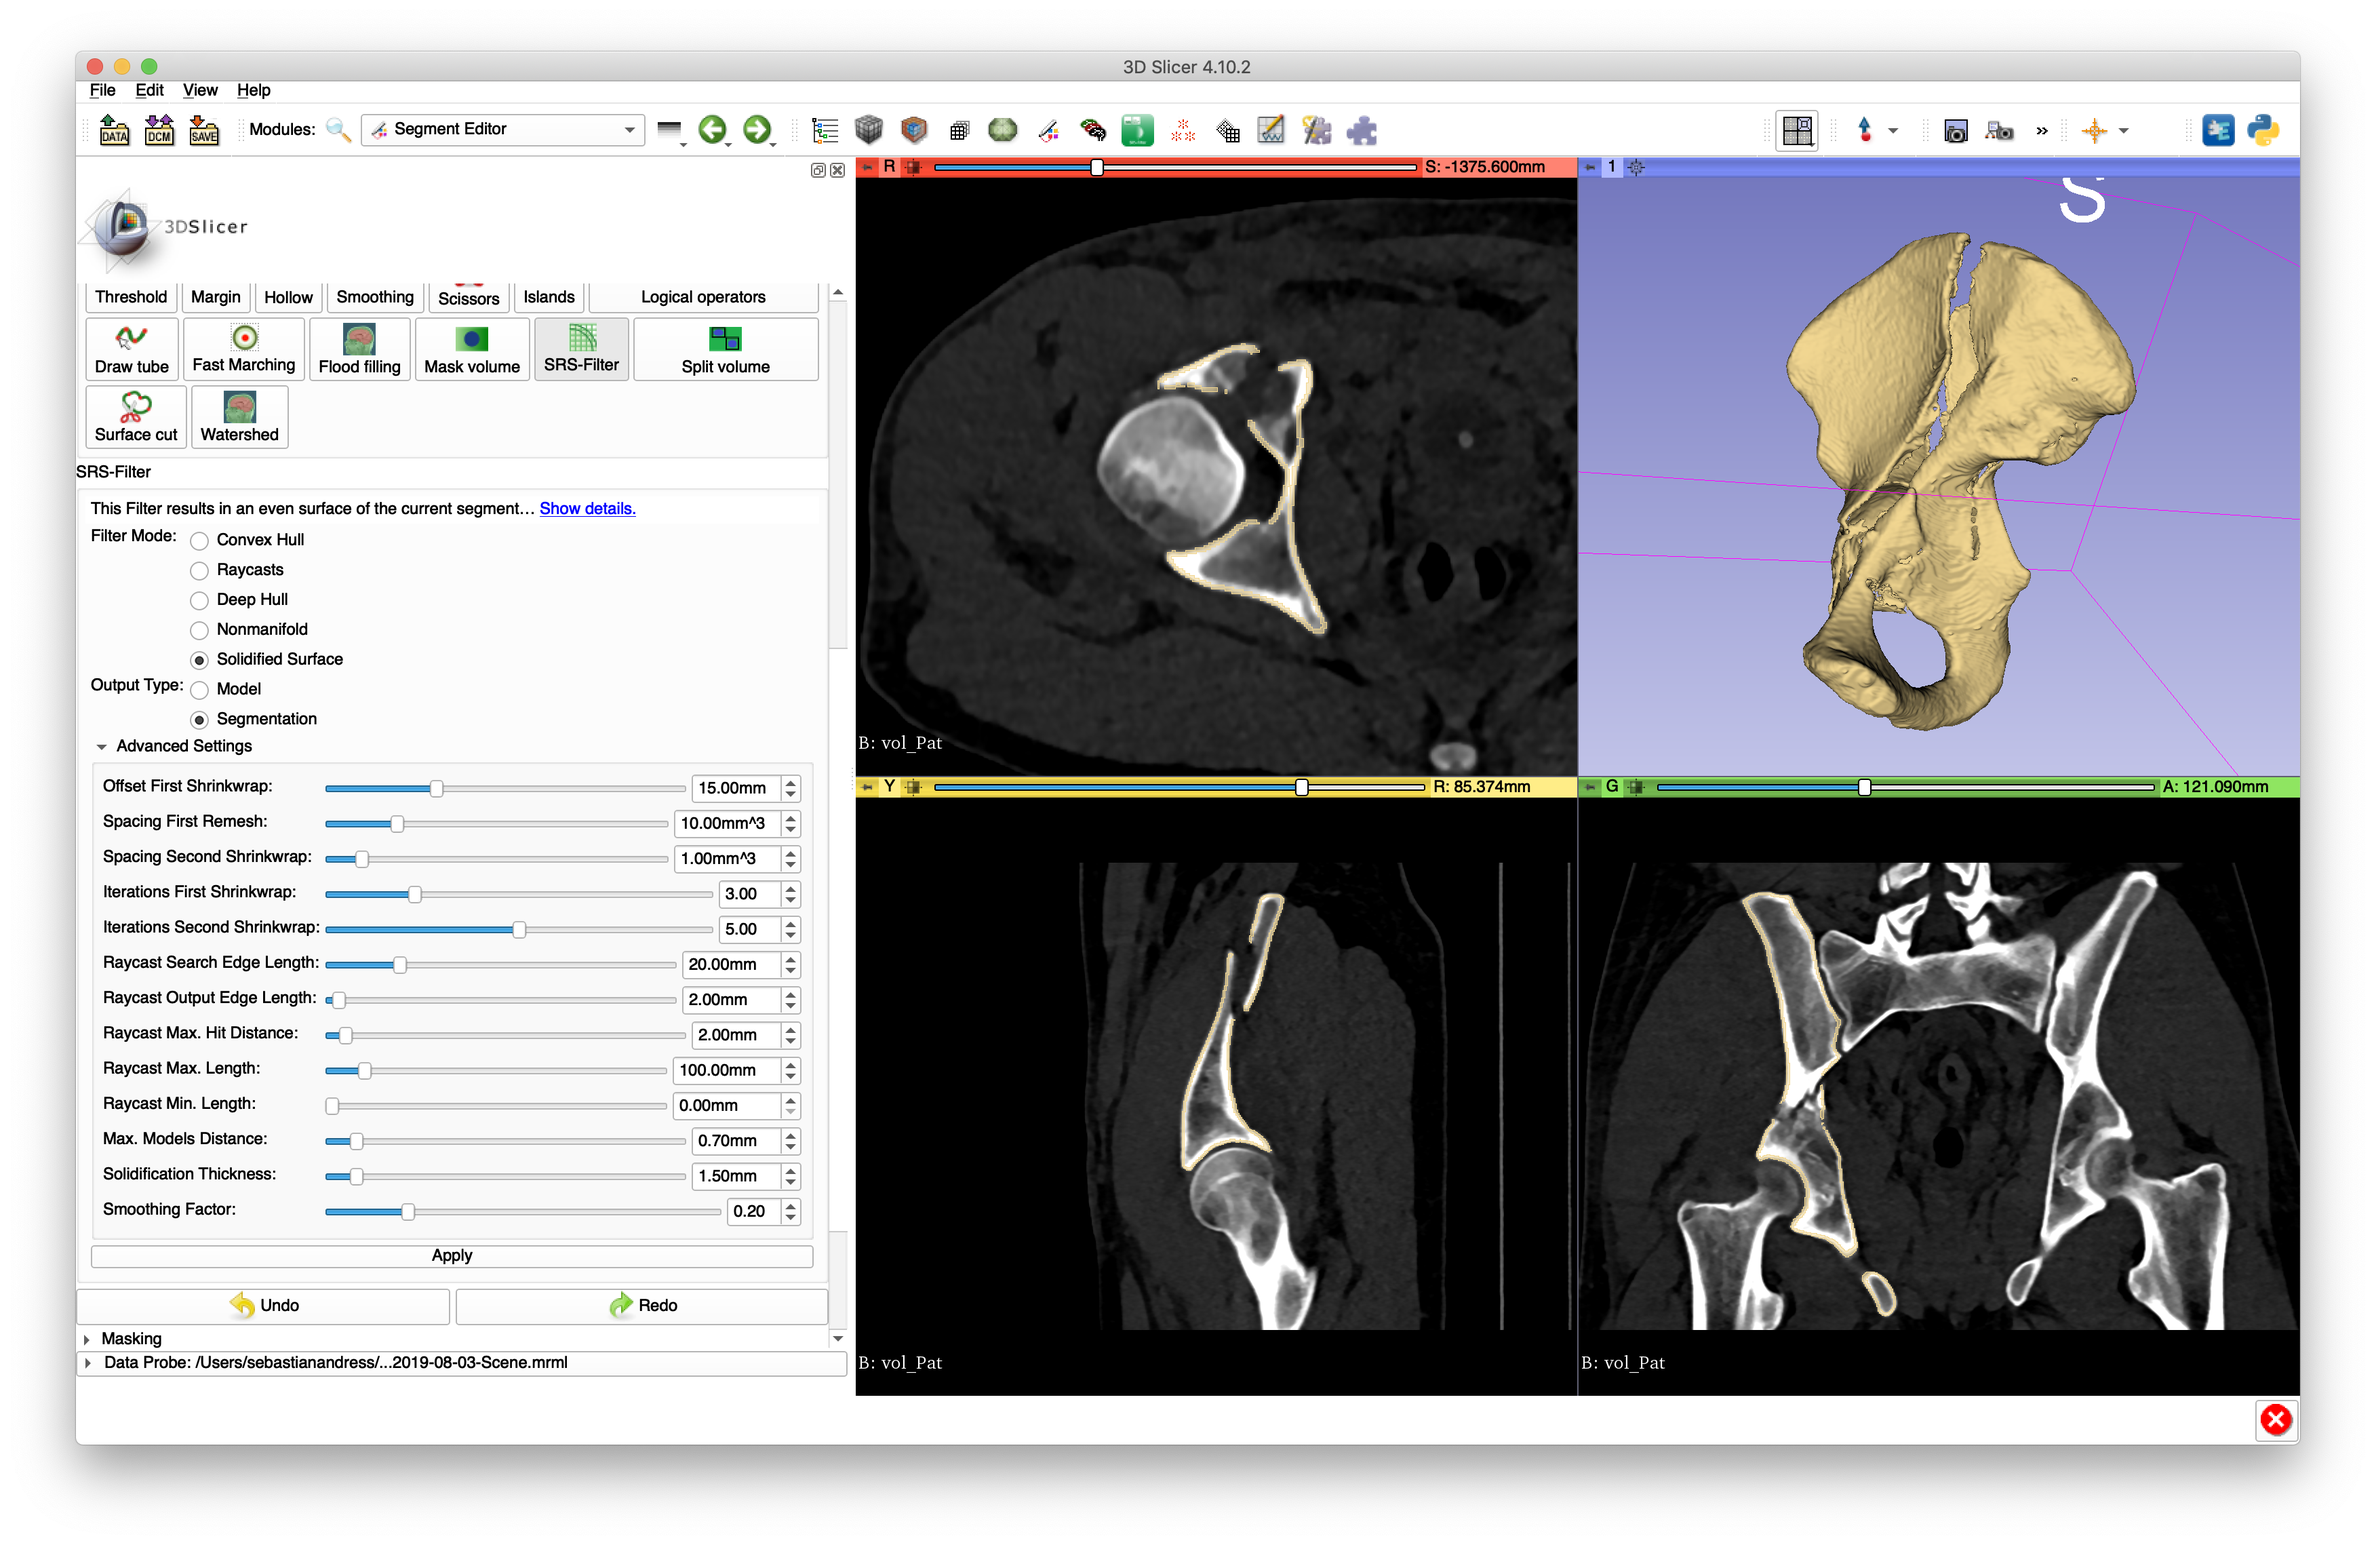
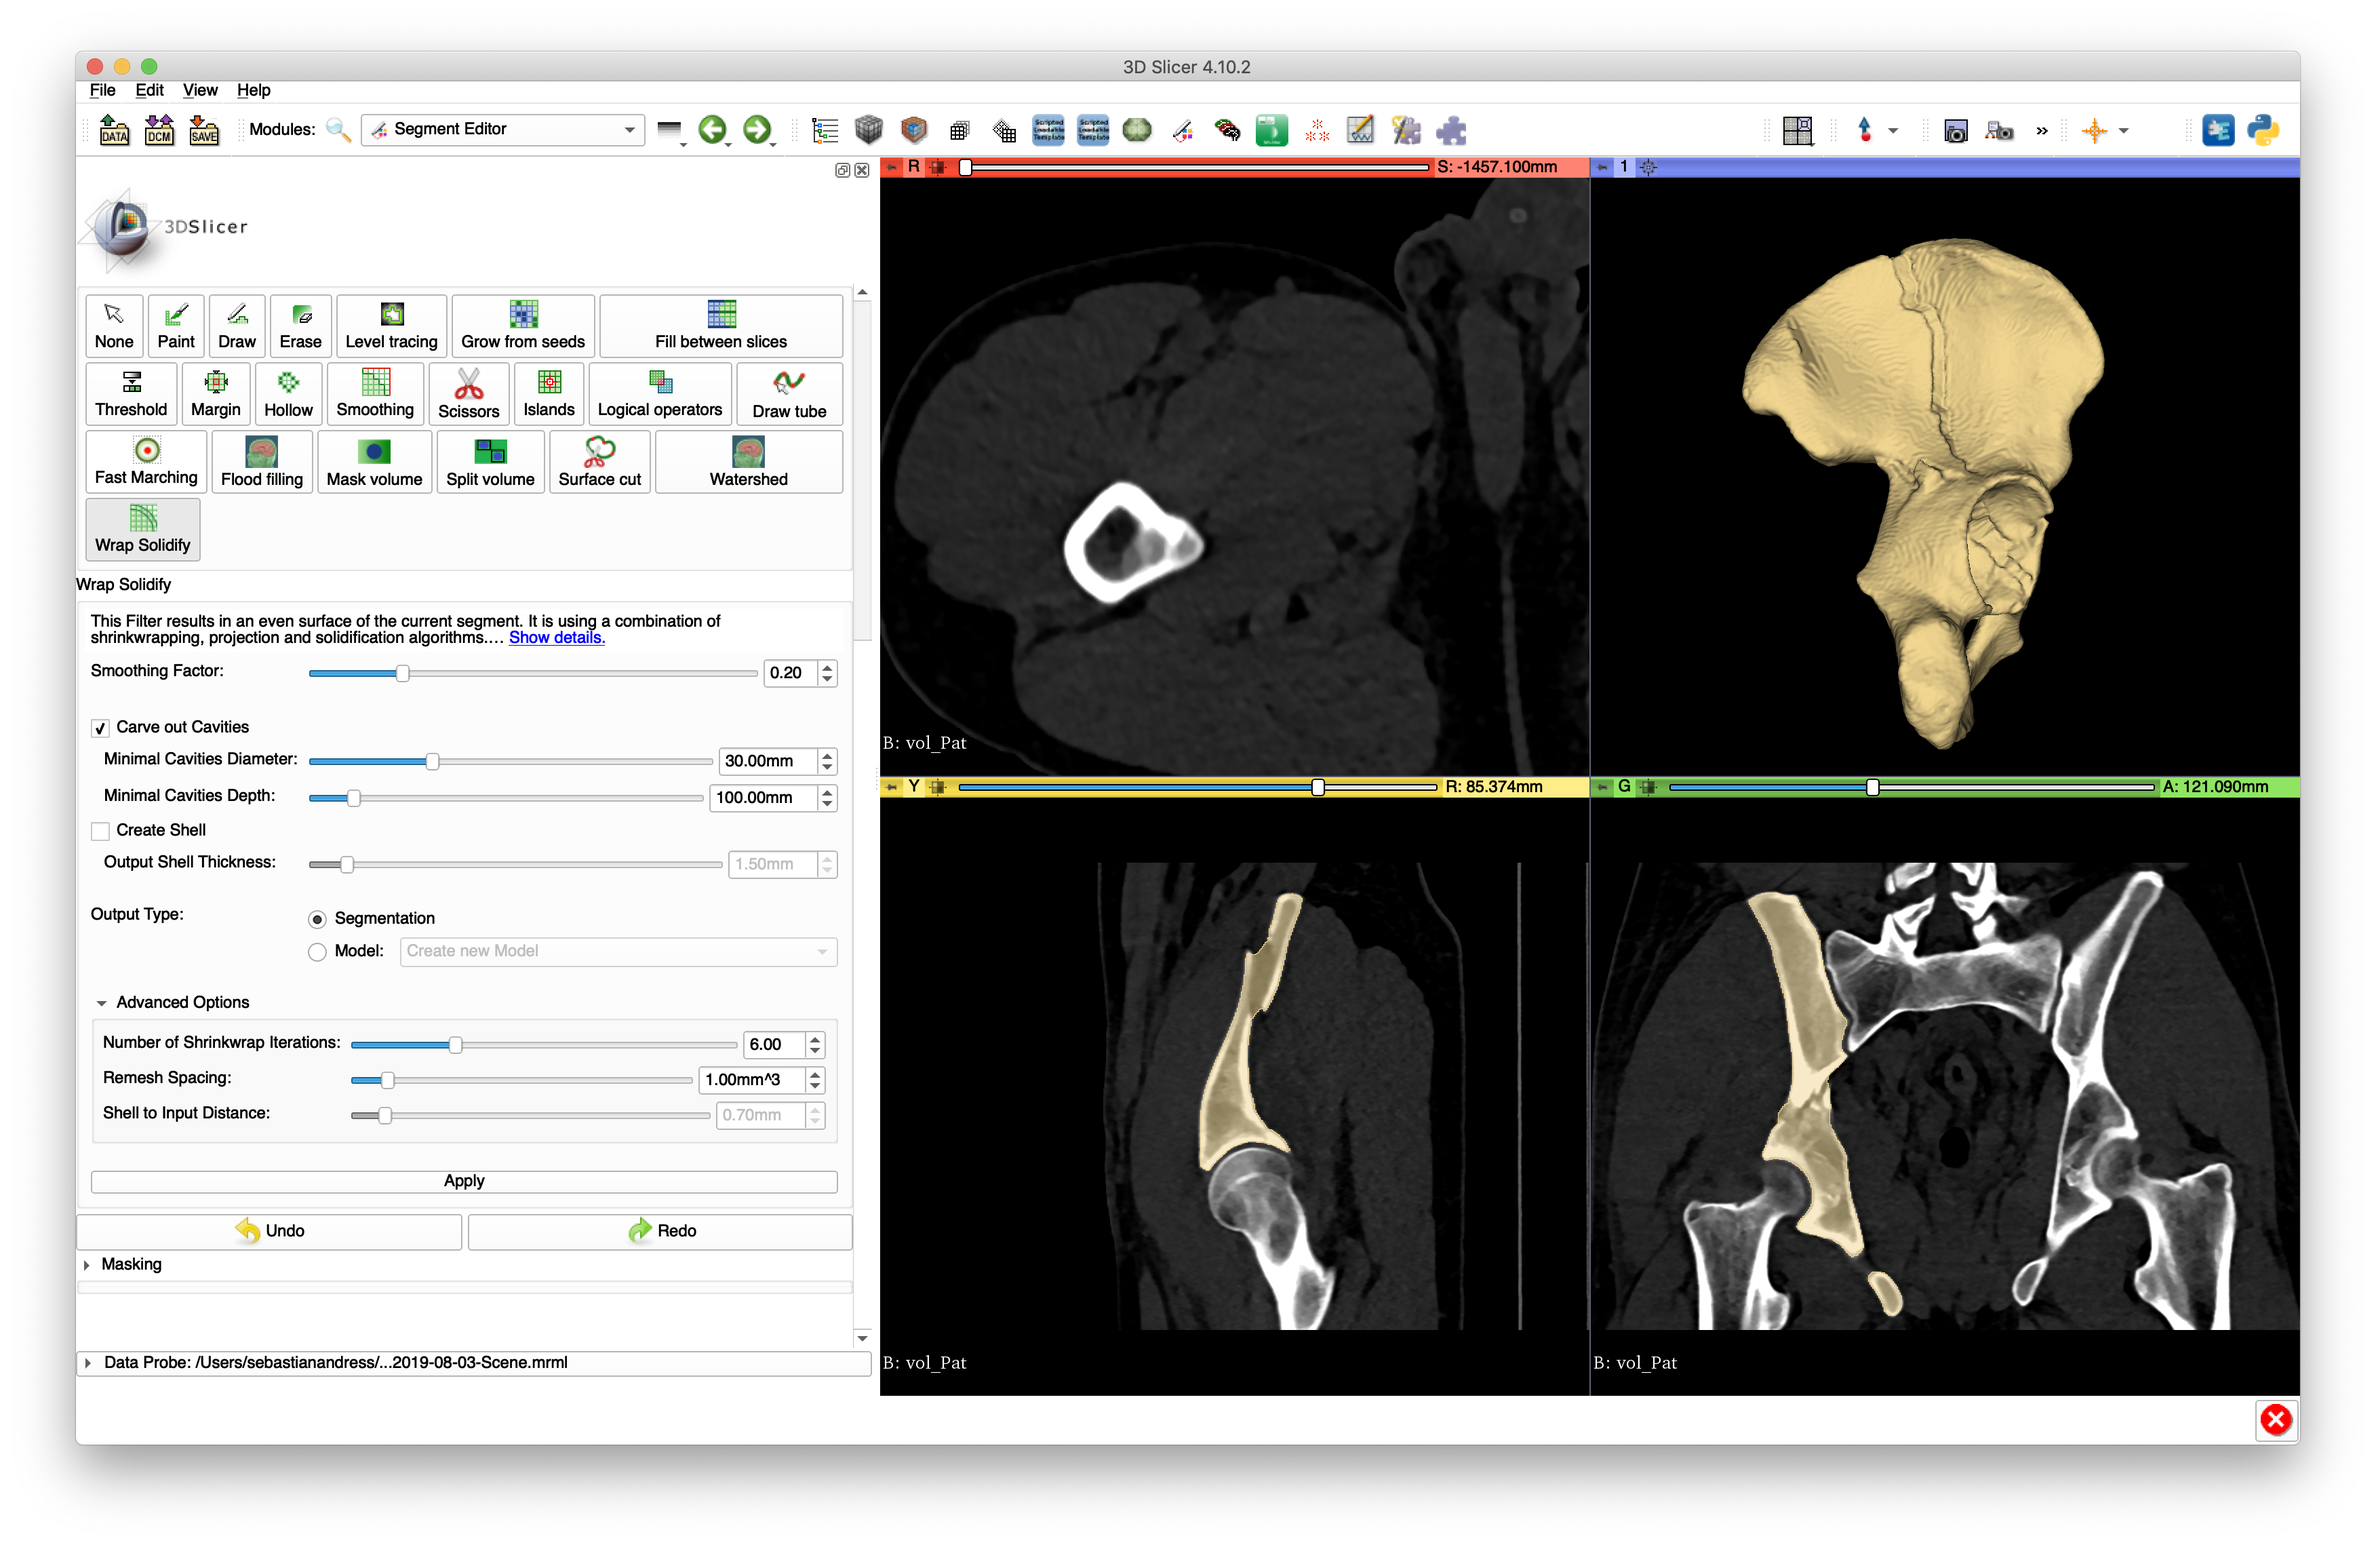
Closes #2 by adapting readme
Former-commit-id: f8107188183881403f48232ea838bc1daf4be76b [formerly 7311852ae4e9285aadfd59e2fef997484c52c3a7]
Former-commit-id: 80a0d84ee982011b4cc0a55fd69224666b78aca2

diff --git a/README.md b/README.md
@@ -11,125 +11,73 @@ This effect was designed for creating fractured bone models for fast 3D printing
 
 In our use-case, we used this effect after applying a simple threshold operation and separating the bone with simple brushing and island techniques. Please watch the [workflow example](#Workflow-Example) videos. The effect was tested on more than 30 acetabular fracture models, it reduced the printing time about 70%.
 
-![](/Resources/Screenshots/screenshot1.png)
+![Screenshot](/Resources/Screenshots/screenshot1.png)
 
-## Principle Description and Parameters
-The Wrap Solidify Effect uses the following pipeline to achieve the effect result. Also the related parameters are explained.
+## Description
+The Wrap Solidify Effect uses the following pipeline:
 
 1. A surface representation of the selected segment is created (segmented model).
-    * __Smoothing Factor__: Smoothing of the surface representation. This factor is also used on the output surface model and segmentation.
-
+    * _Smoothing Factor_ defines smoothing of the input surface representation
 2. Around this segmented model a sphere is created (sphere/surface model).
+3. Shrinkwrapping (iteratively shrinking and remeshing the sphere model to the segmented model) is used for surface definition.
+    * _Number of Shrinkwrap Iterations_ is used to define the number of iterations.
+    * _Smoothing Factor_ is used for smoothing between iterations.
+    * _Spacing_ is used to define resolution of remesh.
+4. (optional) The resulting surface model is converted into a segmentation.
 
-3. Iteratively shrinkwrapping and remeshing the sphere model to the segmented model, keeping a distance between both models.
+### Optional Steps
 
-    ![](/Resources/Media/description_1_firstSR.png)
+* **Carve out Cavities**:
+    1. Three initial shrinking and remeshing iterations ([Step 1-3](#Description)).
+        * _Minimal Cavities Diameter_ and _Minimal Cavities Depth_ is used to define cavities (like in the example images the acetabular cup)
+    2. Vertices of the surface model get projected into cavities.
+    3. Final shrinkwrap iterations ([Step 3-4](#Description)).
 
-    * __Offset First Shrinkwrap__: Distance between both models.\
-    _space between red and turquoise lines/segmentation_
-    * __Iterations First Shrinkwrap__: The more iterations, the more precise this first result will be. _WARNING_: Will increase processing time, depending on spacing.
-    * __Spacing First Remesh__: The resolution of the sphere model. The smaller the spacing and higher the resolution, the more precise this first output result will be. _WARNING_: Will drastically increase processing time. Especially for the first iteration, high resolution is not needed in most cases.\
-    _Space between white vertex points_
+* **Create Shell**:
+    1. Initial Shrinkwrapping ([Step 1-3](#Description)).
+    2. After the shrinkwrapping, all vertices of the surface model, that are not touching the segmented model, are deleted.
+        * _Shell to Input Distance_ is used to define maximal allowed distance between the vertices of the surface model and the segmented model.
+    3. The surface model gets converted to a solid shell model.
+        * _Output Shell Thickness_ is used to define the thickness of this shell.
+    4. (optional) [Step 4](#Description).
 
-4. Since holes deeper then broad will not be reached by shrinkwrapping, they are covered with long-edged faces. These faces are detected and separated. The resulting vertices are raycasted along their normals to the hitting point on the segmented model, if they fulfil specific criterias described in the following parameters.
-
-    ![](/Resources/Media/description_2_raycastexplanation.png)
-    ![](/Resources/Media/description_2_raycast.png)
-
-    * __Raycast Search Edge Length__: If one edge of a face is longer than this, it is used in this step.\
-    _Image of step 3: length of red line between the two white points above the joint-cup representation_
-    * __Raycast Output Edge Length__: Length of these edges after subdivision. The shorter this length, the more the raycasting will possibly hit cancellous parts inside fracture gaps.\
-    _Upper left: length of red lines between white points_
-    * __Raycast Max. Hit Distance__: Maximal distance between two hits. This setting is to prevent accidental hits way of the other hits.\
-    _Upper right: grey circles around hits_
-    * __Raycast Max./Min. Length__: Maximal/Minimal length of the ray.\
-    _Upper right: length of blue dotted line_
-
-
-5.  After an initial remeshing operation, another shrinkwrap-rememesh iteration finally approximates the former sphere model to the segmented model.
-
-    ![](/Resources/Media/description_3_secondSR.png)
-
-    * __Iterations Second Shrinkwrap__: The more iterations, the more precise this final result will be. _WARNING_: Will increase processing time, depending on spacing.
-    * __Spacing Second Remesh__: The resolution of the surface model. The smaller the spacing and higher the resolution, the more precise the resulting surface model will be. _WARNING_: Will drastically increase processing time. A value of 1 mm^3 normally is enough depending on the original (CT/MRI) volume spacing.\
-    _Space between white vertex points_
-
-6. All vertices and faces of the surface model, that finally are not close to the segmented model, are deleted, resulting in a nonmanifold model.
-
-    ![](/Resources/Media/description_4_nonmanifold.png)
-
-    * __Max. Models Distance__: If a vertex of the surface model is farer away from the segmented model, it gets deleted with it faces.
-    
-7. A solidifying operation creates a solid, manifold model.
-
-    ![](/Resources/Media/description_5_solidified.png)
-
-    * __Solidification Thickness__: Thickness of the solidified surface model. The solidification is performed. It is performed to the inside of the model.
-
-8. Optional:  A segmentation is created stencilling the solidified model.
 
 ### Kwargs for code implementation
-| Parameter | Key | Default | Possible Values | Unit | Type |
-| - | - | - | - | - | - |
-| Offset First Shrinkwrap | `offsetFirstShrinkwrap` | `15.0` | `>0` | mm | `float` |
-| Spacing First Remesh | `spacingFirstRemesh` | `10.0` | `>0` | mm^3 | `float` |
-| Spacing Second Remesh | `spacingSecondRemesh` | `1.0` | `>0` | mm^3 | `float` |
-| Iterations First Shrinkwrap | `iterationsFirstShrinkwrap` | `3` | `>0` |  |  `int` |
-| Iterations Second Shrinkwrap | `iterationsSecondShrinkwrap` | `5` | `>=0` |  | `int` |
-| Raycast Search Edge Length | `raycastSearchEdgeLength` | `20.0` | `>0` | mm | `float` |
-| Raycast Output Edge Length | `raycastOutputEdgeLength` | `2.0` | `>0` | mm | `float` |
-| Raycast Max. Hit Distance | `raycastMaxHitDistance` | `2.0` | `>0` | mm | `float` |
-| Raycast Max. Length | `raycastMaxLength` | `100.0` | `>0` | mm | `float` |
-| Raycast Min. Length | `raycastMinLength` | `0.0` | `>=0` | mm | `float` |
-| Max. Models Distance | `maxModelDistance` | `0.7` | `>=0` | mm | `float` |
-| Solidification Thickness | `solidificationThickness` | `1.5` | `>0` | mm | `float` |
-| Smoothing Factor | `smoothingFactor` | `0.2` | `0-1` | % | `float` |
-| Output Type | `outputType` | `MODEL` | `MODEL`, `SEGMENTATION` |  | `string` |
-| Filter Mode | `filterMode` | `SOLIDIFIED` | `CONVEXHULL`, `RAYCASTS`, `DEEPHULL`, `NONMANIFOLD`, `SOLIDIFIED` |  | `string` |
+| Parameter | Key | Default | Possible Values | Unit | Type | Feature
+| - | - | - | - | - | - | - |
+| Output Type | `outputType` | `SEGMENTATION` | `SEGMENTATION`, `MODEL` | | `string` | |
+| Smoothing Factor | `smoothingFactor` | `0.2` | `0-1` | | `float` | |
+| Carve out Cavities | `carveCavities` | `False` | `True`, `False` | | `bool` | |
+| Minimal Cavities Diameter | `cavitiesDiameter` | `20.0` | `>0` |  |  `float` | |
+| Minimal Cavities Depth | `cavitiesDepth` | `100.0` | `>0` | mm | `float` | |
+| Create Shell | `createShell` | `False` | `True`, `False` | | `bool` | |
+| Shell Thickness | `shellThickness` | `1.5` | `>=-0.1` | mm | `float` | If <0, a non-solid model will be created. |
+| Number of Shrinkwrap Iterations | `iterationsNr` | `7` | `>0` | `int` | |
+| Spacing | `spacing` | `1.0` | `>0` | mm^3 | `float` | |
+| Shell to Input Distance | `shellDistance` | `0.7` | `>=-0.1` | mm | `float` | If <0, no vertex gets deleted. |
 
 
 ## Results
 To see the creation of the results, please see the [Workflow Example](#Workflow-Example) section.
 
-After a common threshold procedure and slightly manual edits, the resulting segmentation shows parts of the cartilage and cancellous bone.
- 
-![](/Resources/Media/result_seg_threshold.gif)
+![Results Image](/Resources/Media/result.gif)
 
-Applying the Wrap Solidify effect with the default settings results in the following segmentation.
-
-![](/Resources/Media/result_seg_srs.gif)
-
-The following interim results are possible:
-
-### Convex Hull
-![](/Resources/Media/result_mod_convexhull.gif)
-
-### Raycasts
-![](/Resources/Media/result_mod_raycast.gif)
-
-### Deep Hull
-![](/Resources/Media/result_mod_deephull.gif)
-
-### Nonsolid Model
-![](/Resources/Media/result_mod_nonsolid.gif)
-
-### Solidified Surface
-![](/Resources/Media/result_mod_solid.gif)
 
 ## Workflow Example
 
 As described in the [Introduction](#Introduction), this effect was designed to create fast printable bones as easy and least time consuming as possible. The parameters are especially fitted for hemipelvic bones. The threshold and manual edit takes about 3 minutes, the effect itself another 2 minutes resulting in an printable bone. The effect itself reduces the printing time about 70 percent.
 
 ### Threshold
-[![](/Resources/Media/workflow_threshold.png)](https://1drv.ms/v/s!AqzdGuIdWLfeiNpPVeR4AYf7swui8g)
+[![Threshold Video Preview Image](/Resources/Media/threshold.png)](https://1drv.ms/v/s!AqzdGuIdWLfeiNpPJhrVKhDsuxqw7w?e=6DOqgo)
 
-A thresholding operation between 300 and the maximal Houndsfiled units was performed, using the __Threshold__ effect. By using the sphere brush, first the femoral head, and subsequently connecting parts in the sacroiliac joint were erased. Using the __Islands__ effect, the exempted hemipelvis was added to an own segment.
+A thresholding operation between 300 and the maximal Houndsfiled Unit was performed, using the __Threshold__ effect. By using the sphere brush, first the femoral head, and subsequently connecting parts in the sacroiliac joint were erased. Using the __Islands__ effect, the exempted hemipelvis was added to an own segment.
 
 ### Filter process
-[![](/Resources/Media/workflow_processing.png)](https://1drv.ms/v/s!AqzdGuIdWLfeiNpOgzGybjGQTu4F4w)
+[![Processing Video Preview Image](/Resources/Media/processing.png)](https://1drv.ms/v/s!AqzdGuIdWLfeiNpO1rx9ZGbbhk6frQ?e=5NFQMt)
 
 In this example, the processing time was 1:46 min on a Apple MacBook Pro 2017 (3,1 GHz Intel Core i7, Memory 16 GB).
 
 
 ## How to install
-Please follow the description on the official [3D Slicer page](https://www.slicer.org/wiki/Documentation/Nightly/Developers/FAQ/Extensions). The extension should also be soon available in the builtin Extension Manager.
+The Extension is available in the [Extension Manager](http://slicer.kitware.com/midas3/slicerappstore/extension/view?extensionId=330842) for Slicer Versions greater than 4.11.
+To install it manually, please follow the description on the official [3D Slicer page](https://www.slicer.org/wiki/Documentation/Nightly/Developers/FAQ/Extensions). 
